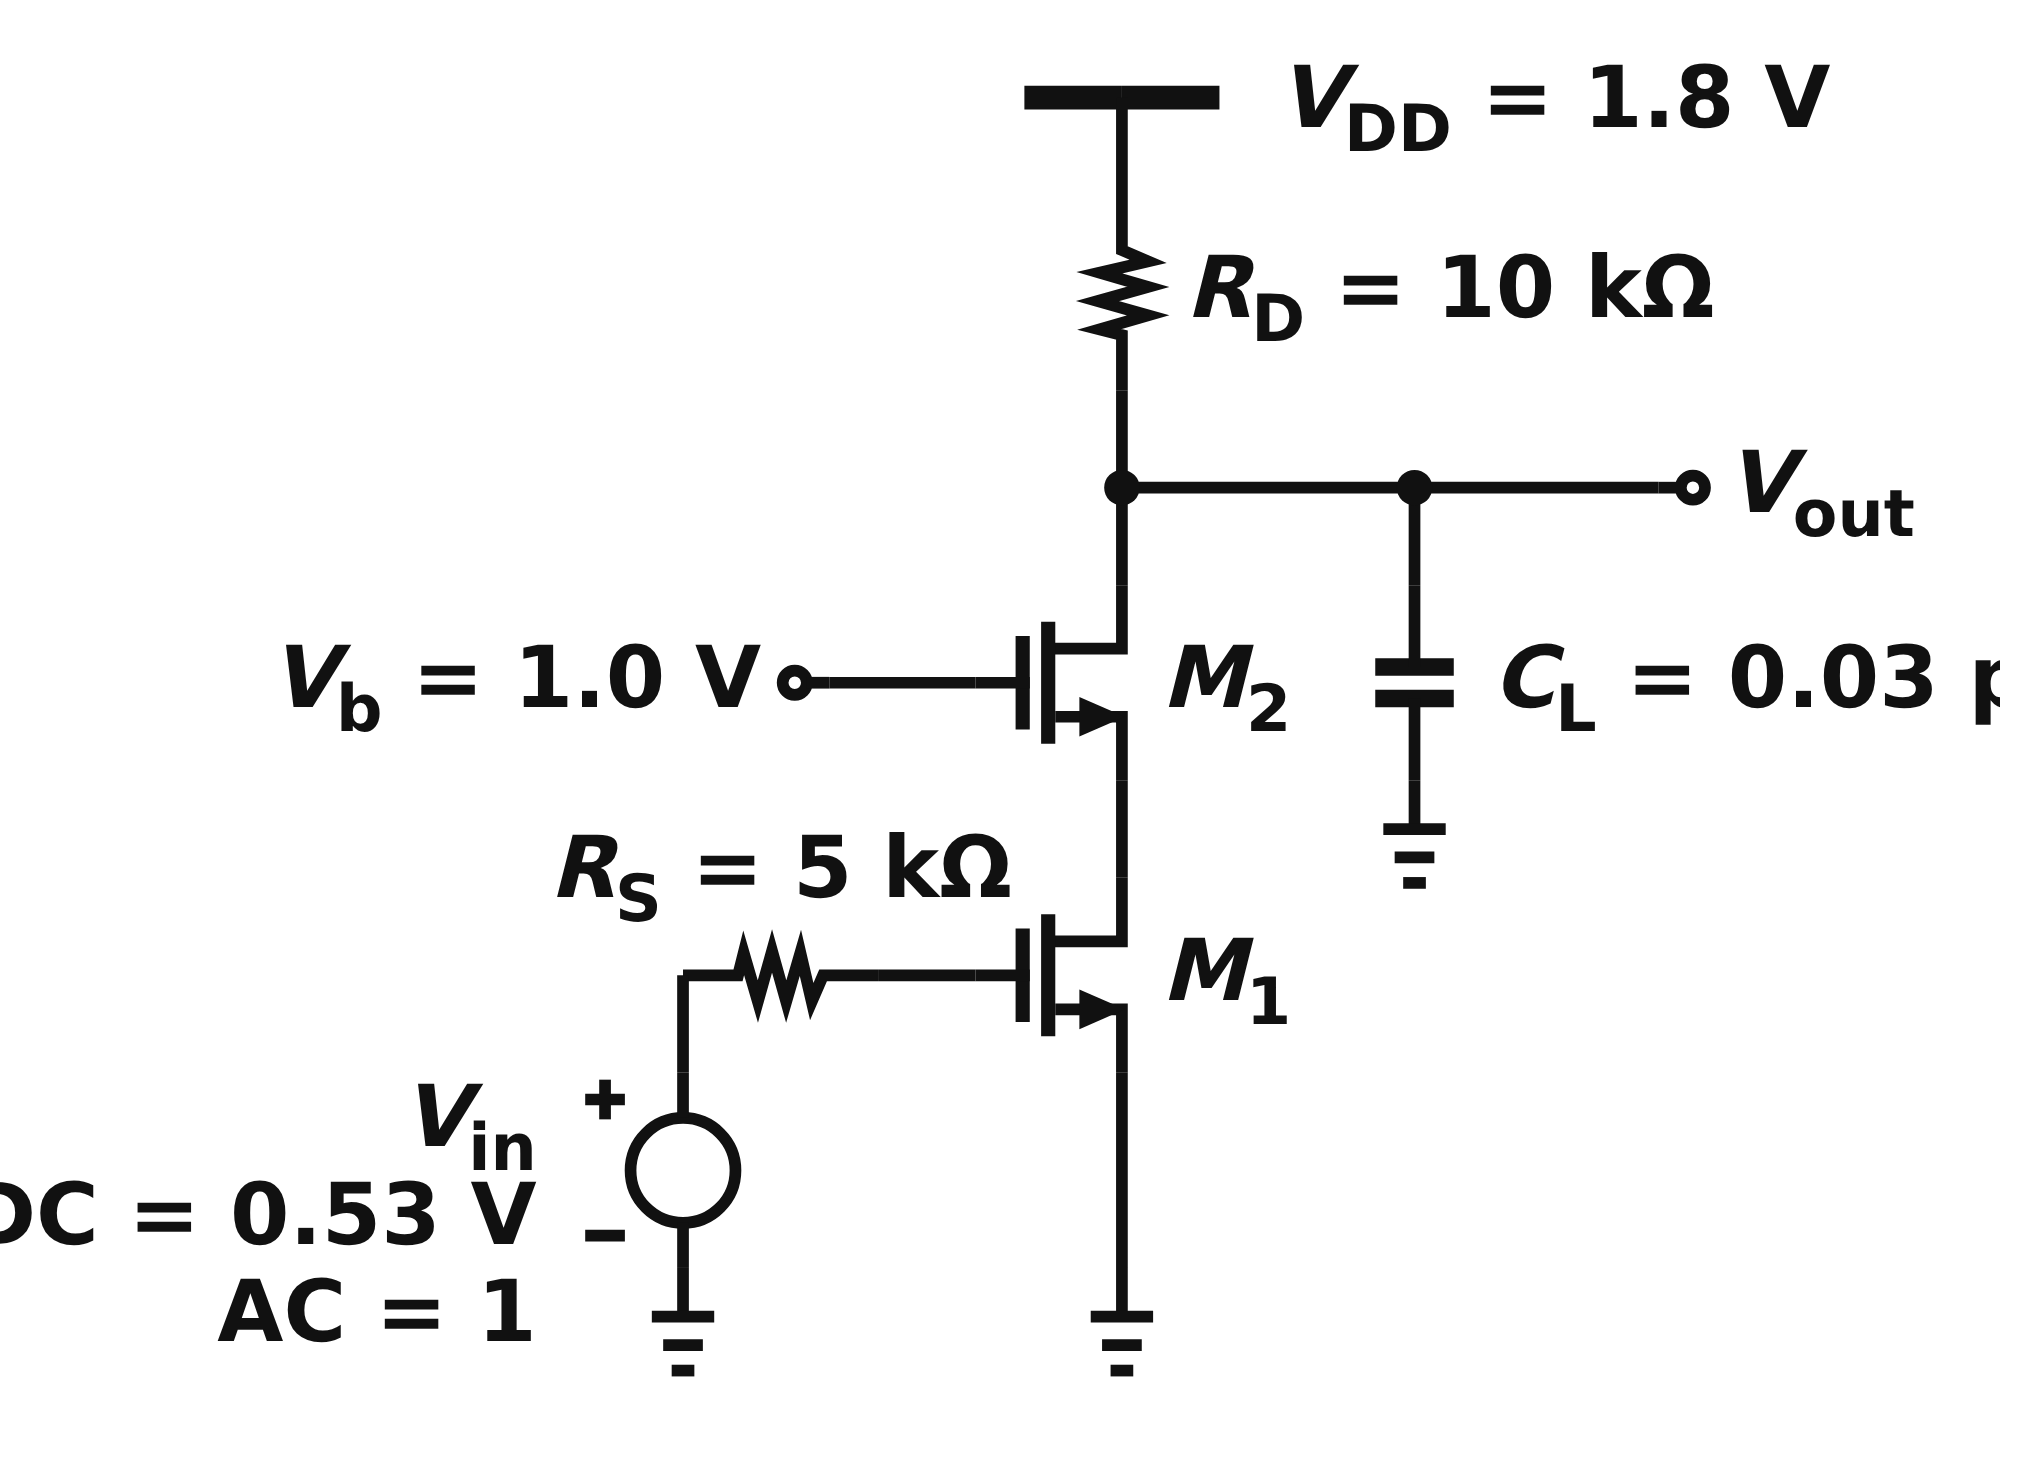
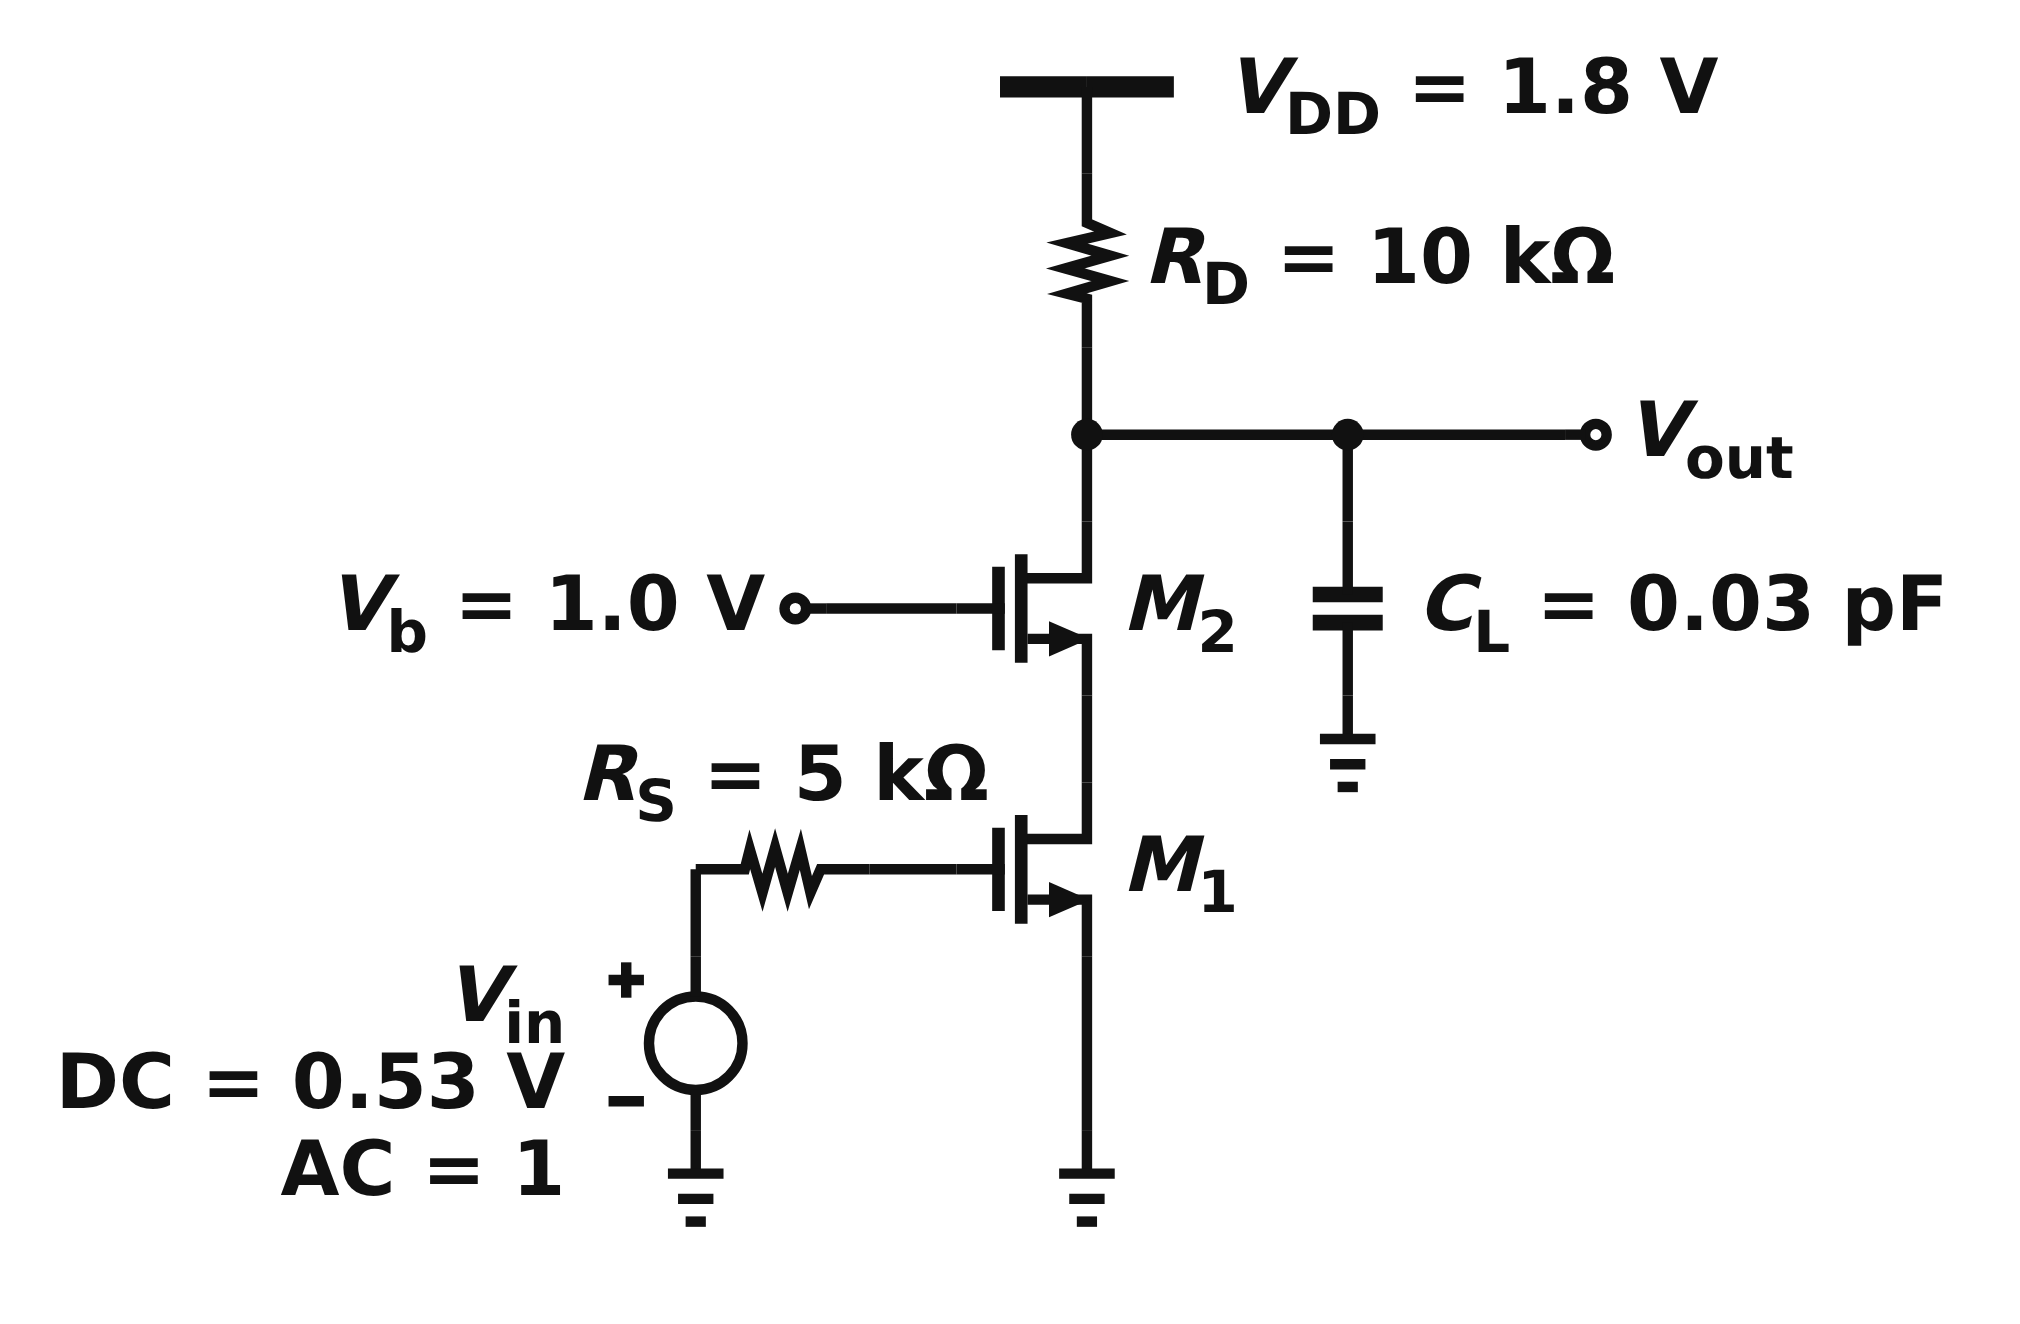
預覽不再切字：build() 新增 viewbox 稽核，10 支 generator 的 viewbox 補足
2d929be 在 Linux 重新渲染 gallery 時，Chrome 用的是 DejaVu Sans（網站
本身也是），比使用者 Windows 上退回的 Arial 寬，手寫的 viewbox 裝不下：
HW4 a/c 的「DC = 0.53 V」「C_L = 0.03 pF」、9.83 的「V_DD = 1.8 V」等
10 張被切。build() 現在用 DejaVu 字寬表檢查每個零件墨跡與標籤框都在
viewBox 內，超出就列出並視為失敗；10 支 generator 依量到的超出量補
邊（+4 取整到 10）。viewbox 只影響預覽，out/*.icproj.json 完全不變。

Claude-Session: https://claude.ai/code/session_01B7ow4G267G6myWzRbx6DGm

Changed region(s): [[0.0, 0.031, 0.998, 0.929], [0.1248, 0.4335, 0.4366, 0.4955], [0.7797, 0.2787, 0.9668, 0.3716]]

diff --git a/toolkit/icproj.py b/toolkit/icproj.py
@@ -1022,6 +1022,7 @@ class Schematic(object):
             self._crowding()
             self._pitch()
             self._density(density_ref)
+        clipped = self._viewbox_audit(viewbox)
         self._preview(viewbox)
 
         out_dir = os.path.dirname(os.path.abspath(self.out_proj))
@@ -1039,7 +1040,7 @@ class Schematic(object):
                 failures.append("self-check=%d" % len(errs))
             for key, count in (("legs", legs), ("labels", labels),
                                ("on-wire", onwire), ("tees", tees),
-                               ("shorts", shorts)):
+                               ("shorts", shorts), ("viewbox", clipped)):
                 if count:
                     failures.append("%s=%d" % (key, count))
             failures.extend(external)
@@ -1054,6 +1055,30 @@ class Schematic(object):
         return project
 
     # ---------------------------------------------------------- checks
+    def _viewbox_audit(self, vb, margin=1.0):
+        """Every part and every label must lie inside the preview viewBox.
+
+        The viewBox is hand-written per figure, and labels are measured in
+        DejaVu Sans Bold (what the site and a Linux Chrome draw with).  A
+        Windows Chrome falls back to the narrower Arial, so a box that fitted
+        there clipped `DC = 0.53 V` and `C_L = 0.03 pF` once the gallery was
+        re-rendered on Linux (2026-11-01).  Measure, do not eyeball.
+        """
+        x0, y0, x1, y1 = vb[0], vb[1], vb[0] + vb[2], vb[1] + vb[3]
+        items = [(iid, self.ink(iid)) for iid in sorted(self.placed)]
+        items += [(lid, label_box(rt, lx, ly, al))
+                  for lid, rt, lx, ly, al, _own in self.label_records()]
+        bad = 0
+        for oid, b in items:
+            over = {"left": x0 - b[0], "top": y0 - b[1],
+                    "right": b[2] - x1, "bottom": b[3] - y1}
+            over = {k: v for k, v in over.items() if v > margin}
+            if over:
+                bad += 1
+                print("  ! %s sticks out of the viewbox: %s" % (oid, ", ".join(
+                    "%s by %.1f" % kv for kv in sorted(over.items()))))
+        return bad
+
     def _selfcheck(self, rail_ends):
         errs = []
         self.warnings = []

diff --git a/toolkit/gen_esd_rc_clamp.py b/toolkit/gen_esd_rc_clamp.py
@@ -131,7 +131,7 @@ f.build(long_haul={"r-vdd-rail-1", "r-vdd-rail-2", "r-vdd-rail-3",
              "scope": "global", "powerDomain": "vdd"}],
         rail_ends={"jvdd-start", "jvdd-end", "jvss-start", "jvss-end",
                    "JW", "JPP", "JNP"},
-        viewbox=(85, 85, 520, 305),
+        viewbox=(85, 85, 530, 305),
         # plain text on purpose (values / block titles): the
         # editor's generator italicises everything, we follow the
         # textbook page instead -- SOP 4

diff --git a/toolkit/gen_diff_lc_amp.py b/toolkit/gen_diff_lc_amp.py
@@ -127,7 +127,7 @@ f.build(long_haul={"r-t3", "r-t4", "r-u3", "r-u4",
                    "r-t2", "r-u2",      # the C_B/2 bridge
                    "r-l-l2", "r-r-l2"},  # drain node out to L_2
         extra_evidence=[],
-        viewbox=(40, 65, 700, 330),
+        viewbox=(20, 65, 740, 330),
         # plain text on purpose (values / block titles): the
         # editor's generator italicises everything, we follow the
         # textbook page instead -- SOP 4

diff --git a/toolkit/gen_fig983_cg.py b/toolkit/gen_fig983_cg.py
@@ -141,5 +141,5 @@ f.build(long_haul={"r-vdd-rail-0", "r-vdd-rail-1", "r-vdd-rail-2",
                    "r-pb-2",         # 110: the pmos drain node down to M_5
                    "r-pb-4"},        # 50: the pmos gate bus across to M_3
         rail_ends={"jvdd-start", "jvdd-end"},
-        viewbox=(120, 75, 440, 310),
+        viewbox=(110, 75, 490, 310),
         expect_differ={"label-vdd"})   # rail name + value (SOP §4)

diff --git a/toolkit/gen_aicintro_hw4_b.py b/toolkit/gen_aicintro_hw4_b.py
@@ -88,6 +88,6 @@ f.build(long_haul={
             "r-o-jc",      # 60: room for the M_1 label between drain and C_L
         },
         rail_ends={"jvdd-start", "jvdd-end"},
-        viewbox=(150, 80, 370, 330),
+        viewbox=(150, 80, 390, 330),
         expect_differ={"label-vdd", "note-vb", "note-rd", "note-cl", "note-rs",
                        "note-vin-dc", "note-vin-ac"})   # value text, upright on purpose (SOP 4)

diff --git a/toolkit/gen_aicintro_hw4_c.py b/toolkit/gen_aicintro_hw4_c.py
@@ -96,6 +96,6 @@ f.build(long_haul={
             "r-o-jc",      # 60: room for the M_2 label between drain and C_L
         },
         rail_ends={"jvdd-start", "jvdd-end"},
-        viewbox=(100, 80, 410, 300),
+        viewbox=(80, 80, 460, 300),
         expect_differ={"label-vdd", "note-vb", "note-rd", "note-cl", "note-rs",
                        "note-vin-dc", "note-vin-ac"})   # value text, upright on purpose (SOP 4)

diff --git a/toolkit/gen_aicintro_hw4_a.py b/toolkit/gen_aicintro_hw4_a.py
@@ -92,6 +92,6 @@ f.build(long_haul={
             "r-o-jc",      # 60: room for the M_1 label between drain and C_L
         },
         rail_ends={"jvdd-start", "jvdd-end"},
-        viewbox=(100, 80, 410, 240),
+        viewbox=(80, 80, 460, 240),
         expect_differ={"label-vdd", "note-rd", "note-cl", "note-rs",
                        "note-vin-dc", "note-vin-ac"})   # value text, upright on purpose (SOP 4)

diff --git a/toolkit/gen_fig934.py b/toolkit/gen_fig934.py
@@ -134,4 +134,4 @@ f.build(long_haul={"r-vcc-rail-0", "r-vcc-rail-1", "r-vcc-rail-2",
                    "r-cm-1",         # 50: Q_M collector up to the pnp node
                    "r-cm-3"},        # 60+50: pnp node across to Q_2's base
         rail_ends={"jvcc-start", "jvcc-end"},
-        viewbox=(120, 75, 470, 260))
+        viewbox=(100, 75, 490, 260))

diff --git a/toolkit/gen_fig857.py b/toolkit/gen_fig857.py
@@ -73,4 +73,4 @@ f.text("note-y", 360, 155, "start", "Y")
 # r-y is the feedback wrap from the op amp output back down to the
 # diode: both ends are pinned by the topology, so it is a long haul.
 f.build(long_haul={"r-y"}, extra_evidence=[], density_ref=("OA", 40.9),
-        viewbox=(170, 118, 215, 165))
+        viewbox=(160, 118, 225, 165))

diff --git a/toolkit/gen_handdrawn_bridge_rect.py b/toolkit/gen_handdrawn_bridge_rect.py
@@ -137,5 +137,5 @@ f.build(long_haul={"r-in1",        # 70+110: in at the top, down to the primary
                    "r-n-g"},       # out to the ground
         extra_evidence=[],
         rail_ends={"JIN2"},
-        viewbox=(20, 30, 600, 340),
+        viewbox=(10, 30, 610, 340),
         expect_differ={"n-6v"})   # value (SOP §4)

diff --git a/toolkit/gen_handdrawn_2stage_ss.py b/toolkit/gen_handdrawn_2stage_ss.py
@@ -125,5 +125,5 @@ f.build(long_haul={"r-e-rp1",      # 60: r_pi1 across to the R_E node
                    "r-g-top"},     # 60: source 2 across to its ground
         extra_evidence=[],
         rail_ends={"JG3"},
-        viewbox=(60, 60, 600, 240),
+        viewbox=(50, 60, 610, 240),
         expect_differ=set())

diff --git a/OPTIMIZE_LOG.md b/OPTIMIZE_LOG.md
@@ -6,3 +6,4 @@
 
 - 2026-11-01｜新增 SOP_QUICK.md 生圖速查（SOP 127 KB → 速查 6.9 KB，約 1/18），SOP §0 與 README 指向它｜預期：手寫一張圖要讀的規則 token 降到約 5%｜文件，不影響 bench｜(本 commit)
 - 2026-11-01｜validate.mjs 改用 model-adapter 已驗證的 factory/schema，不再盲呼叫所有 export（v58 有一個會卡滿 1 s 逾時）｜預期：每次驗證 2.1 s → 0.3 s｜不影響 bench 產物；generate all --no-render 159 s → 40 s、單張 gen_fig848 含 PNG 5.0 s → 3.0 s；regress 36/36 逐位元相同｜(本 commit)
+- 2026-11-01｜build() 新增 viewbox 稽核（零件墨跡與標籤框必須在預覽 viewBox 內，用 DejaVu 字寬量）；10 支 generator 的 viewbox 補到剛好容納｜預期：gallery 不再切字（Windows Arial 窄、Linux／網站 DejaVu 寬，2d929be 重渲染後 HW4 a/c、9.83、9.34 等 10 張被切）｜out/*.icproj.json 0 變動、regress 36/36；只換 10 張預覽 PNG；bench 不受影響（autoplace 自己算 viewbox）｜(本 commit)
